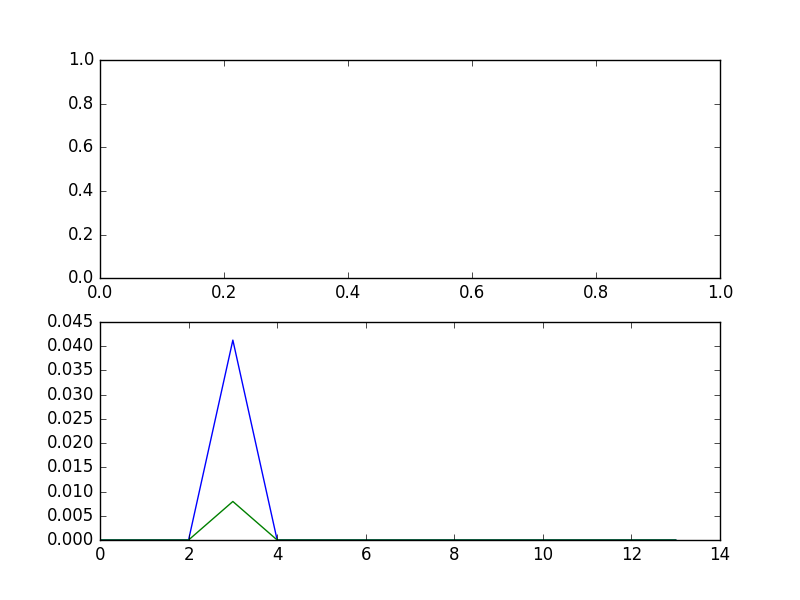
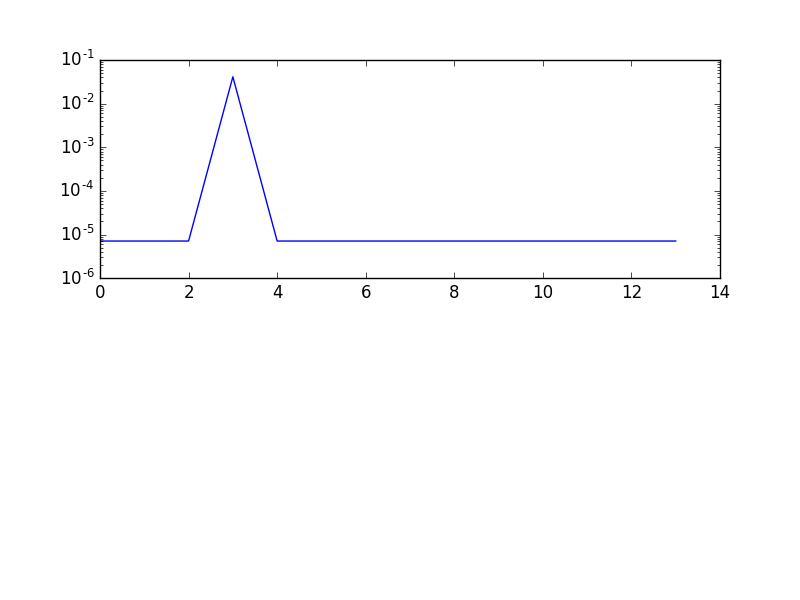
log scale

diff --git a/l41-labs/lab2/median.py b/l41-labs/lab2/median.py
@@ -41,10 +41,9 @@ for size,res in toCompare.iteritems():
     pvalues_ttest.append(ttest.pvalue)
 
 fig=plt.figure()
-ax1=fig.add_subplot(2,1,1)
-ax2=fig.add_subplot(2,1,2)
+ax = fig.add_subplot(2,1,1)
 
-plt.yscale('log')
-plt.plot(pvalues)
-plt.plot(pvalues_ttest)
+line, = ax.plot(pvalues)
+ax.set_yscale('log')
+
 fig.savefig("pipe_2thread_pipe_2proc.png")
